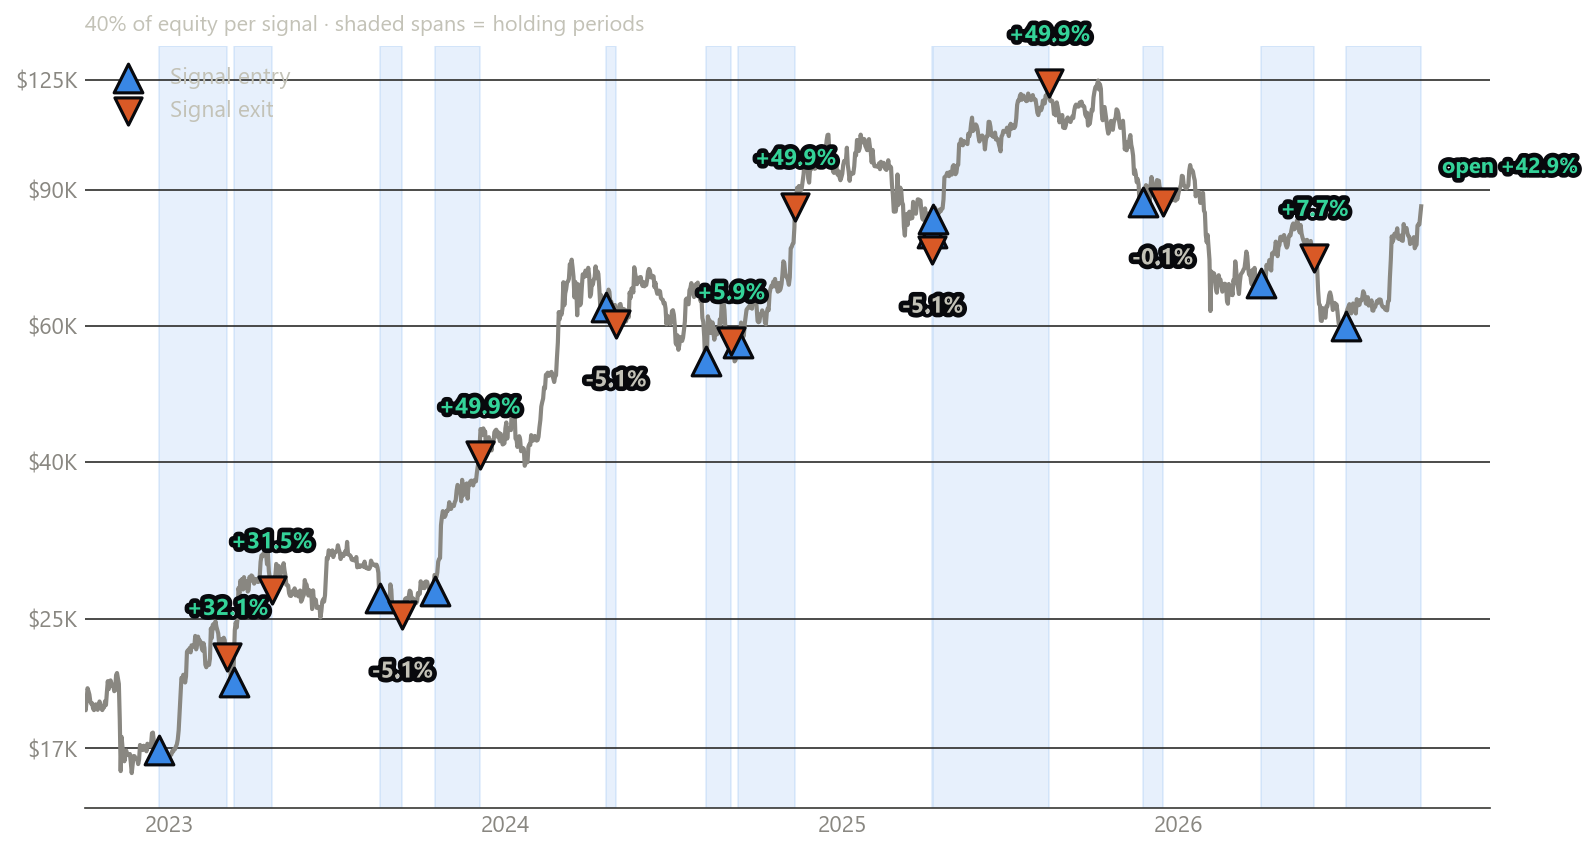
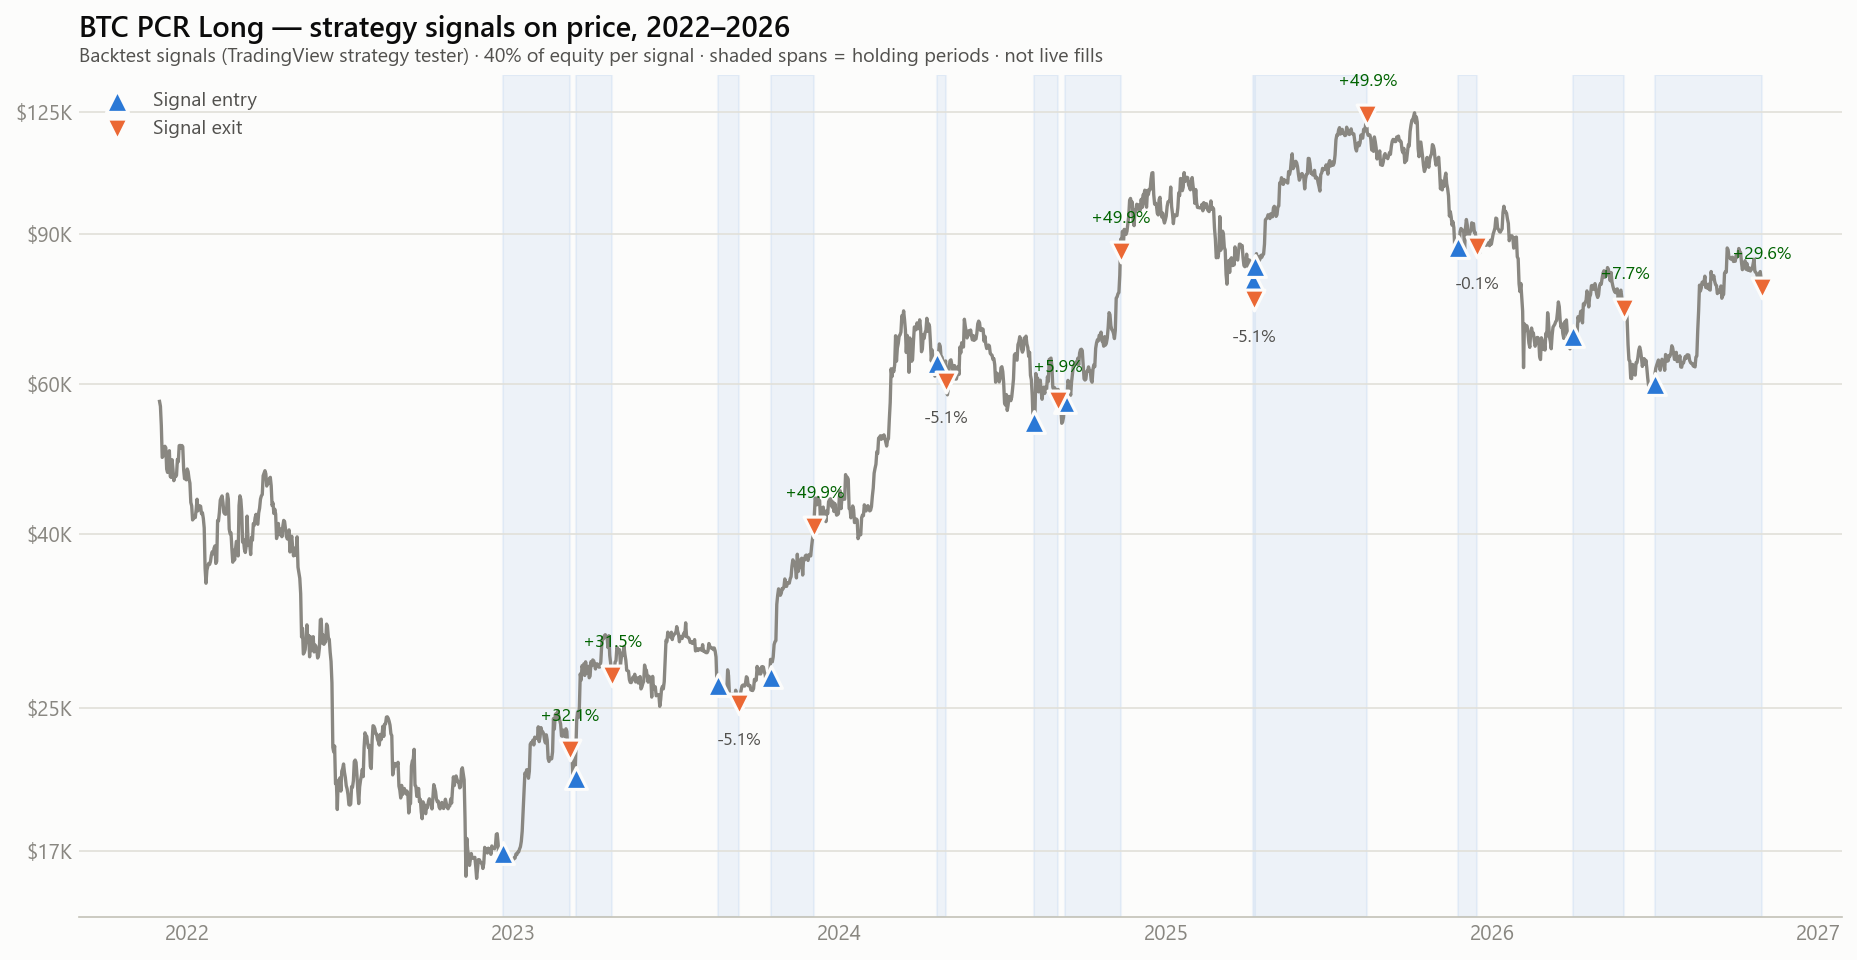
Update BTC LSR trail exit dashboard

diff --git a/lib/strategies.ts b/lib/strategies.ts
@@ -313,15 +313,15 @@ export const strategies: Strategy[] = [
     asset: 'BTC',
     category: 'crypto',
     edge: 'Exchange Data',
-    cagr: '27.8%',
+    cagr: '26.0%',
     cagrLabel: 'CAGR (since first trade)',
-    cagrNum: 0.278,
-    sharpe: '1.84',
+    cagrNum: 0.260,
+    sharpe: '1.71',
     maxDD: '-7.2%',
     maxDDNum: 0.072,
     status: 'live',
-    description: 'Directional BTC strategy using the coefficient between buyers and sellers to identify regime shifts and market bottoms. Card metrics are the signal record at 40% of equity per signal, unlevered (cash otherwise idle). CAGR is measured from the first signal (Dec 2022); the same curve compounds at 21.4% from Jan 2022 and 16.7% from 2014. Trading live since Apr 2025 - live entries tracked the signals within 0.02-1.2%, verified against exchange order IDs.',
-    dataSource: 'Signals: 2022-2026 (4.7 yr) | Live: Apr 2025',
+    description: 'Directional BTC strategy using the coefficient between buyers and sellers to identify regime shifts and market bottoms. Card metrics are the signal record at 40% of equity per signal, unlevered (cash otherwise idle). CAGR is measured from the first signal (Dec 2022); the same curve compounds at 20.2% from Jan 2022 and 16.7% from 2014. Trading live since Apr 2025 - live entries tracked the signals within 0.02-1.2%, verified against exchange order IDs.',
+    dataSource: 'Signals: 2022-2026 (4.9 yr) | Live: Apr 2025',
     backtestStart: 2022,
     backtestEnd: 2026,
     liveStart: 2025,
@@ -336,7 +336,7 @@ export const strategies: Strategy[] = [
       { year: 2023, months: [15.7, 0.0, 13.0, -2.1, 0.0, 0.0, 0.0, -1.1, -1.0, 11.0, 4.0, 3.9], ytd: 50.6 },
       { year: 2024, months: [0.0, 0.0, 0.0, -2.0, 0.0, 0.0, 0.0, 3.6, 3.1, 4.6, 9.8, 0.0], ytd: 20.3 },
       { year: 2025, months: [0.0, 0.0, 0.0, 3.5, 4.8, 1.1, 3.7, 3.4, 0.0, 0.0, 1.6, -1.6], ytd: 17.4, isLive: true },
-      { year: 2026, months: [0.0, 0.0, 0.0, 4.7, -1.6, 0.0, 1.9, 11.2, null, null, null, null], ytd: 16.8, isLive: true },
+      { year: 2026, months: [0.0, 0.0, 0.0, 4.7, -1.6, 0.0, 1.9, 10.3, 3.0, -3.3, null, null], ytd: 15.3, isLive: true },
     ],
     chartImg: pdf('/charts/btc-lsr-signals-v3.png'),
     chartImgLabel: 'Strategy signals 2022-2026',
